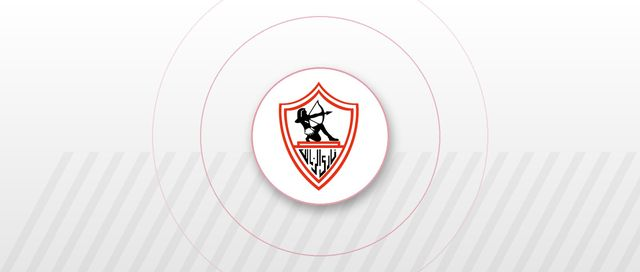
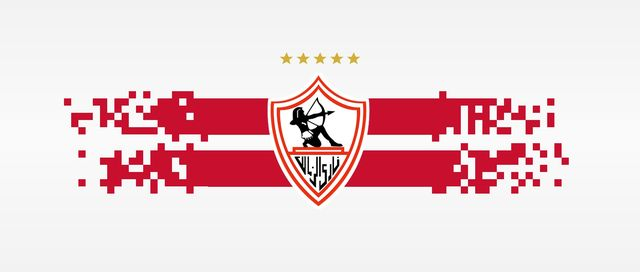
Zamalek identity image in the kit-stripe style (user ask, from a shirt photo, no sponsor mark)
club_identity_card.py --bands [--stars N]: a white canvas, two bands in the
club colour whose ends dissolve into a pixel grid (the shirt's print), the
hi-res crest in the middle with a white halo in its own shape, gold stars
above. Same filename as before, so Zamalek news take it at once.

diff --git a/club_identity_card.py b/club_identity_card.py
@@ -141,6 +141,67 @@ def render(name, out, tagline="", colour=None, badge=None, bare=False):
     return out
 
 
+def _star(d, cx, cy, r, fill):
+    import math
+    pts = []
+    for i in range(10):
+        a = -math.pi / 2 + i * math.pi / 5
+        rr = r if i % 2 == 0 else r * 0.45
+        pts.append((cx + rr * math.cos(a), cy + rr * math.sin(a)))
+    d.polygon(pts, fill=fill)
+
+
+def render_bands(name, out, badge=None, colour=(200, 16, 46), stars=0, seed=7):
+    """The kit-stripe identity image (user, 2026-10-17, from a Zamalek shirt
+    photo: «زي كده بس من غير علامة نايك»): a white canvas, two bands in the
+    club colour whose ends dissolve into a pixel grid, the crest in the
+    middle with its stars above. No text, no brand - the crest-only rule."""
+    import random
+    rnd = random.Random(seed)
+    img = Image.new("RGB", (W, H), (250, 250, 250))
+    d = ImageDraw.Draw(img)
+    # a faint vertical sheen so the white is not flat
+    for y in range(H):
+        t = abs(y - H / 2) / (H / 2)
+        v = round(250 - 8 * t)
+        d.line([(0, y), (W, y)], fill=(v, v, v))
+    bands = [(246, 336), (376, 466)]                   # y0, y1 of each band (90 px, 40 px apart)
+    solid = (520, W - 520)                             # solid between these x
+    cell = 18
+    for y0, y1 in bands:
+        d.rectangle([solid[0], y0, solid[1], y1], fill=colour)
+        # the dissolve: a pixel grid that thins away from the solid part, with
+        # a few cells spilling above and below the band's edge (the shirt)
+        for side in (-1, 1):
+            for k in range(0, 360, cell):
+                p = 1.0 - k / 360
+                x = (solid[0] - k - cell) if side < 0 else (solid[1] + k)
+                for yy in range(y0 - cell, y1 + cell, cell):
+                    inside = y0 <= yy < y1
+                    if rnd.random() < (p if inside else p * 0.25):
+                        d.rectangle([x, yy, x + cell - 1, yy + cell - 1], fill=colour)
+    # the crest, big, on the bands
+    cx, cy = W // 2, 352
+    big = _big_crest(badge, 330)
+    if big is not None:
+        # a white halo in the crest's own shape (its alpha, pasted around the
+        # centre), so the bands stop at the crest the way a shirt's do
+        halo = Image.new("RGBA", big.size, (255, 255, 255, 0))
+        halo.paste((255, 255, 255, 255), (0, 0), big.split()[-1])
+        for dx in range(-7, 8, 2):
+            for dy in range(-7, 8, 2):
+                img.paste(halo, (cx - big.width // 2 + dx, cy - big.height // 2 + dy), halo)
+        img.paste(big, (cx - big.width // 2, cy - big.height // 2), big)
+    else:
+        d.ellipse([cx - 150, cy - 150, cx + 150, cy + 150], fill=WHITE, outline=colour, width=8)
+    gold = (212, 175, 55)
+    top = cy - (big.height // 2 if big is not None else 150) - 40
+    for i in range(stars):
+        _star(d, cx + (i - (stars - 1) / 2) * 42, top, 16, gold)
+    img.save(out, quality=92, optimize=True)
+    return out
+
+
 def main():
     ap = argparse.ArgumentParser()
     ap.add_argument("--club", required=True, help="the club's name as the site writes it")
@@ -148,6 +209,8 @@ def main():
     ap.add_argument("--colour", help="hex, when the club has no kit in matchup_card (the NT)")
     ap.add_argument("--badge-as", help="look the crest up under this name (NT: مصر)")
     ap.add_argument("--bare", action="store_true", help="the crest only: no name, no tagline, no brand")
+    ap.add_argument("--bands", action="store_true", help="the kit-stripe style: white canvas, two bands in the club colour, crest + stars")
+    ap.add_argument("--stars", type=int, default=0, help="--bands: gold stars above the crest")
     ap.add_argument("--out", required=True)
     a = ap.parse_args()
     from site_lib.clubs import TEAM_PAGES
@@ -156,6 +219,11 @@ def main():
     key = a.badge_as or a.club
     badge = MC.club_badge(key, comp) or MC.club_badge(key)
     colour = MC._rgb(a.colour) if a.colour else None
+    if a.bands:
+        kit = MC.KITS.get(a.club)
+        band = colour or (kit[1][1] if kit and len(kit[1]) > 1 else (kit[1][0] if kit else (200, 16, 46)))
+        print(render_bands(a.club, a.out, badge=badge, colour=band, stars=a.stars))
+        return
     print(render(a.club, a.out, a.tagline, colour=colour, badge=badge, bare=a.bare))
 
 
